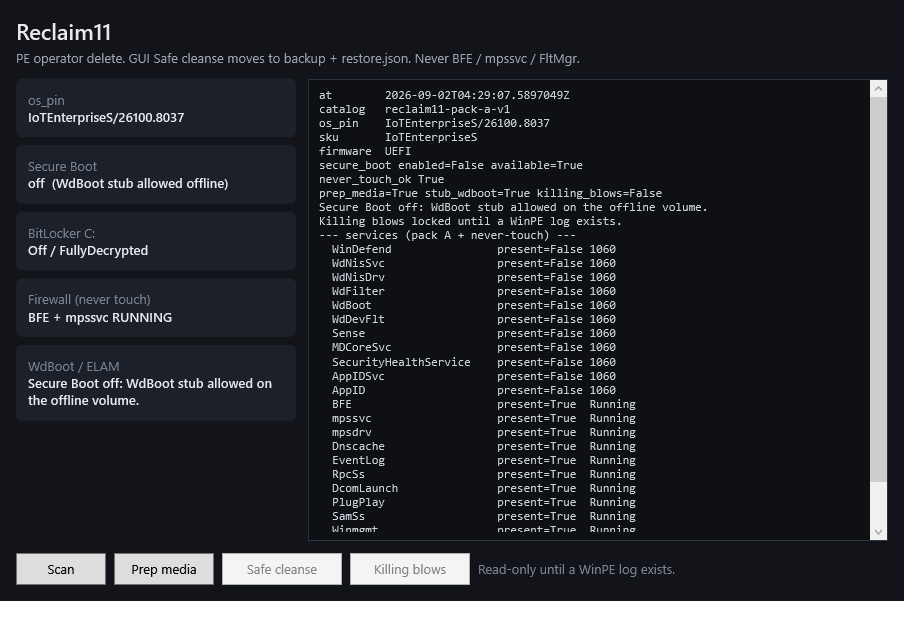
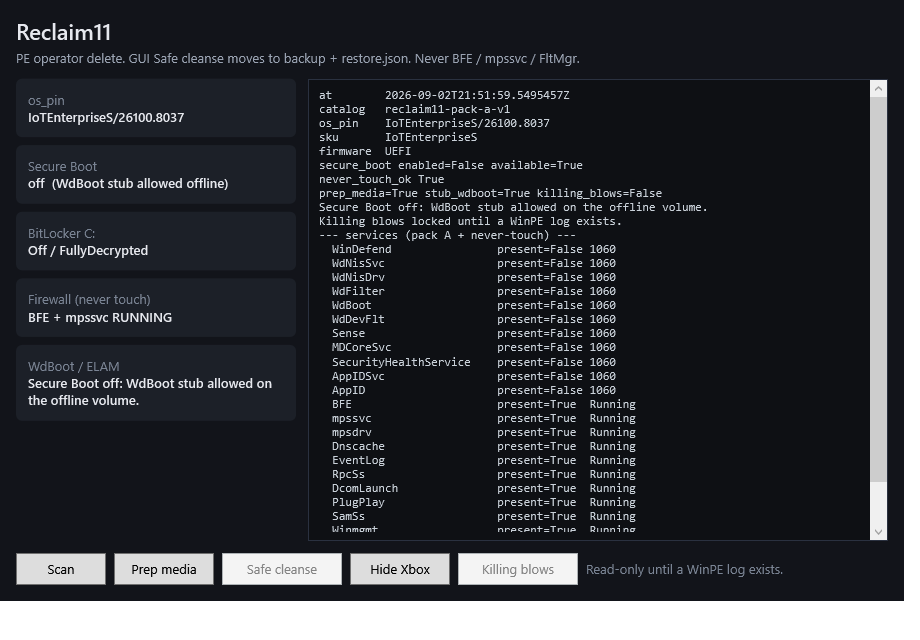
Add Hide Xbox: Settings Game Bar gone, Xbox usermode services deleted.
Matches this desk: hide gaming-gamebar/gamedvr/trueplay/broadcasting so
Gaming is Captures + Game Mode. sc delete Xbl*/XboxNetApiSvc/XboxGipSvc/
GamingServices. Leaves xboxgip (controller) and XboxGameCallableUI. Desk
SKU refused. Not DISM. Not PE-gated.

Changed region(s): [[0.3957, 0.8438, 0.8522, 0.9375], [0.487, 0.125, 0.6087, 0.1562]]

diff --git a/godbrain_core/reclaim11/ui/MainWindow.xaml b/godbrain_core/reclaim11/ui/MainWindow.xaml
@@ -15,6 +15,7 @@
       <Button x:Name="BtnScan" Content="Scan" Width="90" Height="32" Margin="0,0,8,0"/>
       <Button x:Name="BtnPrep" Content="Prep media" Width="100" Height="32" Margin="0,0,8,0" IsEnabled="False"/>
       <Button x:Name="BtnSafe" Content="Safe cleanse" Width="120" Height="32" Margin="0,0,8,0" IsEnabled="False"/>
+      <Button x:Name="BtnXbox" Content="Hide Xbox" Width="100" Height="32" Margin="0,0,8,0"/>
       <Button x:Name="BtnKill" Content="Killing blows" Width="120" Height="32" Margin="0,0,8,0" IsEnabled="False"/>
       <TextBlock x:Name="Footer" VerticalAlignment="Center" Foreground="#7A8494"
                  Text="Read-only until a WinPE log exists."/>

diff --git a/godbrain_core/reclaim11/README.md b/godbrain_core/reclaim11/README.md
@@ -74,6 +74,14 @@ Do **not** nuke the desk. Snapshot a VM, then:
 
 7. Physical USB only after the ISO path is green.
 
+**Hide Xbox** (in-Windows, not PE): machine `SettingsPageVisibility`
+`hide:gaming-gamebar;hide:gaming-gamedvr;hide:gaming-trueplay;hide:gaming-broadcasting`
+so Settings → Gaming matches Captures + Game Mode only. `sc delete` Xbox
+usermode (`XblAuthManager`, `XblGameSave`, `XboxNetApiSvc`, `XboxGipSvc`,
+`GamingServices`, `BcastDVRUserService*`). Does **not** delete `xboxgip`
+(controller). Does **not** remove `Microsoft.XboxGameCallableUI`. Desk
+SKU refused. Not DISM.
+
 GUI (this desk scan, Safe cleanse / Kill locked until a WinPE receipt):
 
 ![Reclaim11 GUI](ui/MainWindow.png)
